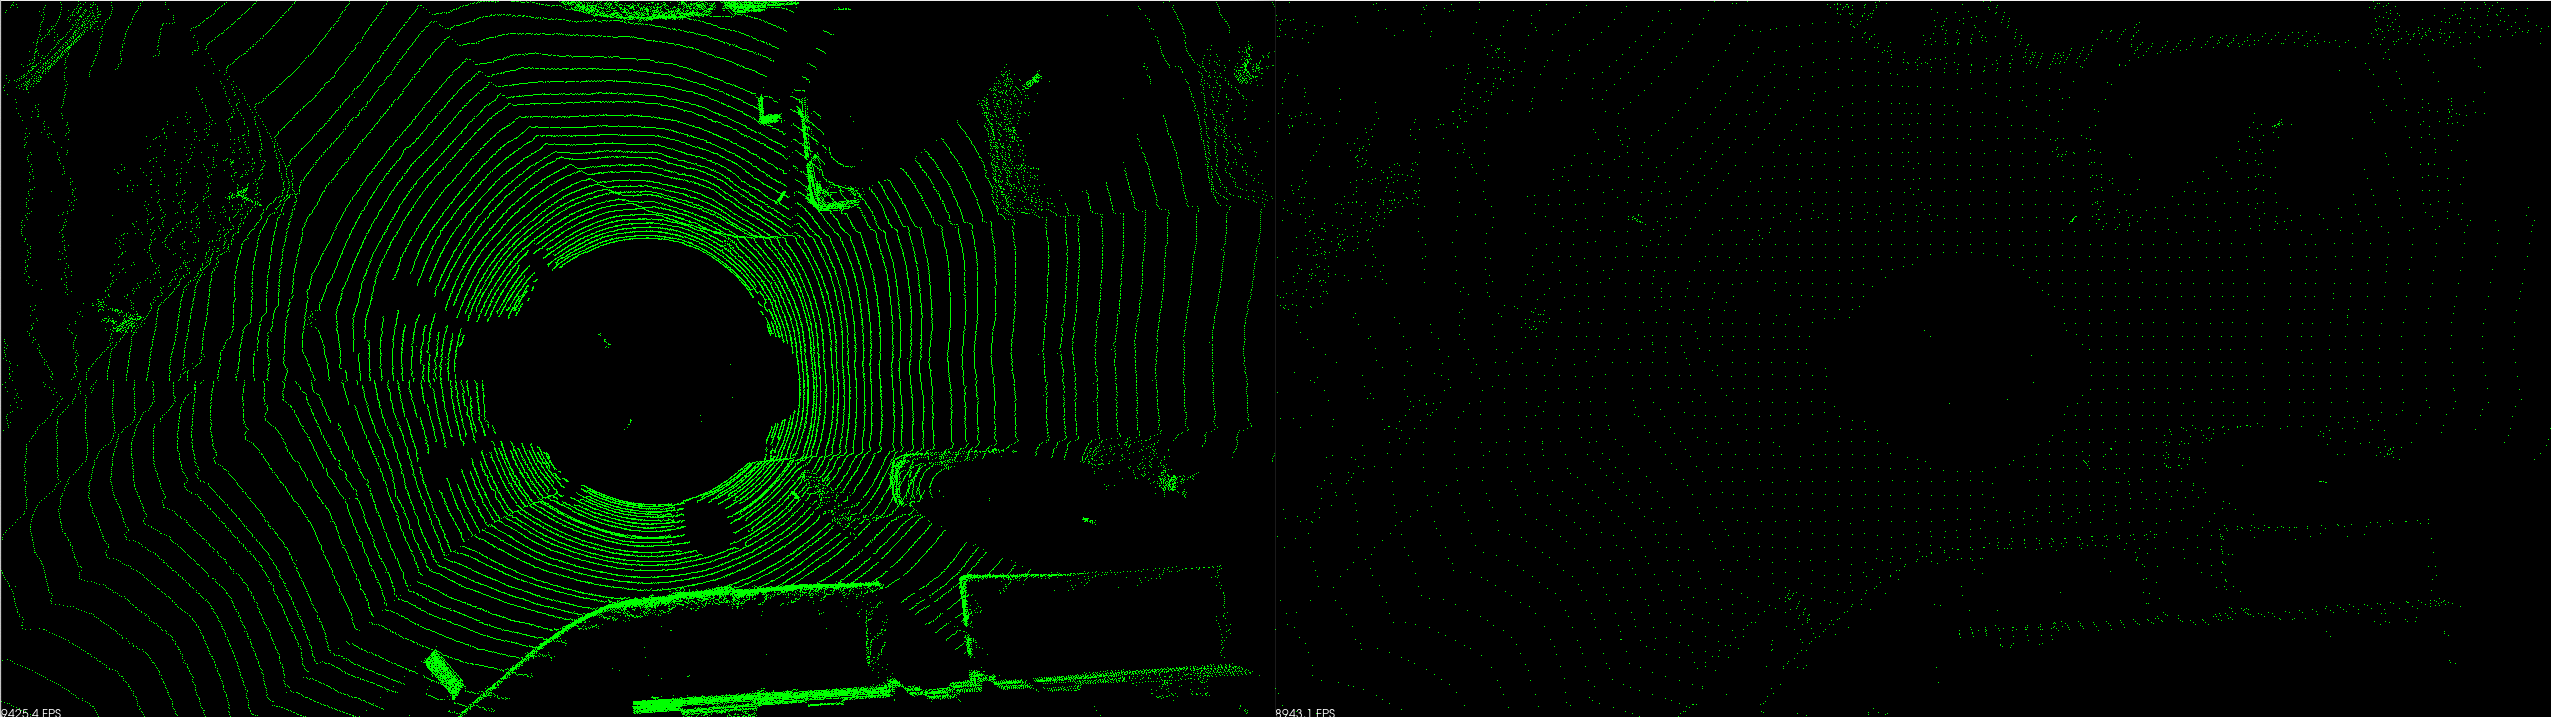
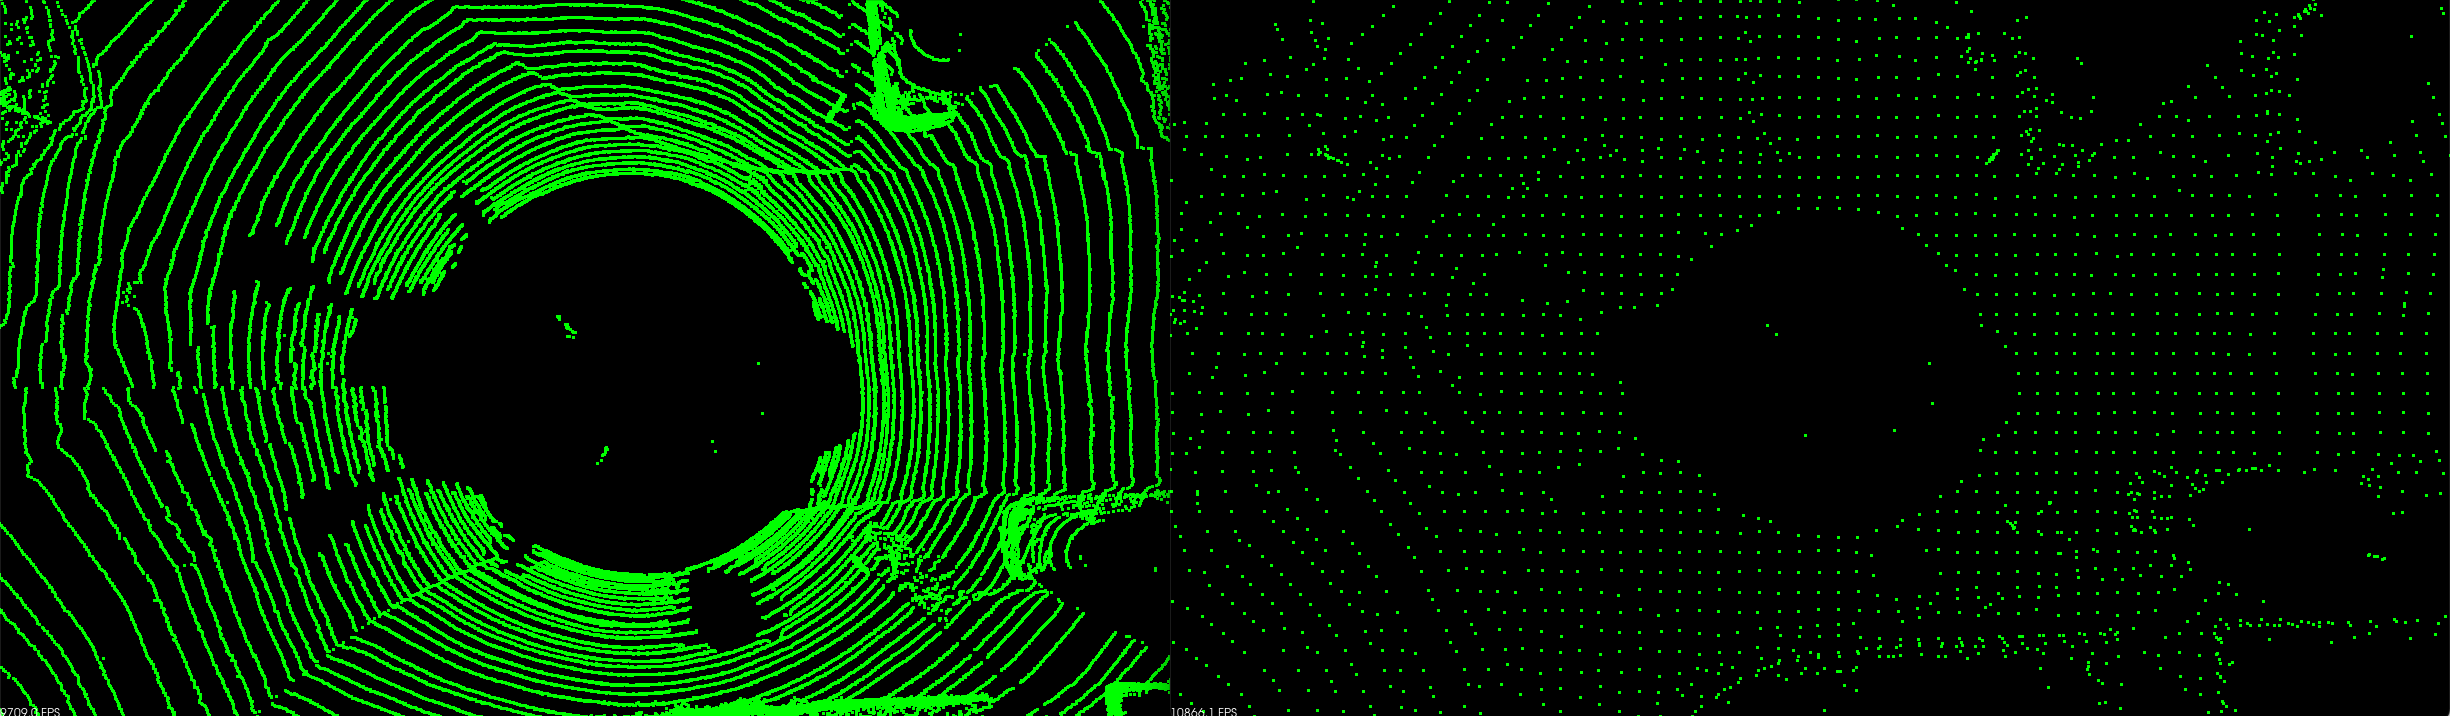
[4_3] Update image for better visibility

diff --git a/4_3/examples/passthrough.cpp b/4_3/examples/passthrough.cpp
@@ -85,16 +85,18 @@ int main(int argc, char **argv) {
   pcl::PointCloud<pcl::PointXYZRGB>::Ptr output_colored(
       new pcl::PointCloud<pcl::PointXYZRGB>);
 
-  colorize(*cloud, *cloud_colored, {0, 255, 0});
+  colorize(*cloud, *cloud_colored, {255, 0, 0});
   colorize(*output, *output_colored, {0, 255, 0});
 
-  pcl::visualization::PCLVisualizer viewer1("Original point cloud");
-  pcl::visualization::PCLVisualizer viewer2("Passthrough point cloud");
+  pcl::visualization::PCLVisualizer viewer1("Passthrough point cloud");
   viewer1.addPointCloud<pcl::PointXYZRGB>(cloud_colored, "cloud");
-  viewer2.addPointCloud<pcl::PointXYZRGB>(output_colored, "cloud");
+  viewer1.addPointCloud<pcl::PointXYZRGB>(output_colored, "cloud_filtered");
 
-  while (!viewer1.wasStopped() || !viewer2.wasStopped()) {
+  viewer1.setPointCloudRenderingProperties(pcl::visualization::PCL_VISUALIZER_POINT_SIZE, 3, "cloud");
+  viewer1.setPointCloudRenderingProperties(pcl::visualization::PCL_VISUALIZER_POINT_SIZE, 3, "cloud_filtered");
+
+  while (!viewer1.wasStopped()) {
     viewer1.spinOnce();
-    viewer2.spinOnce();
+    viewer1.spinOnce();
   }
 }

diff --git a/4_3/examples/downsampling.cpp b/4_3/examples/downsampling.cpp
@@ -77,6 +77,9 @@ int main(int argc, char **argv) {
   pcl::visualization::PCLVisualizer viewer2("Downsampled Cloud Viewer");
   viewer2.addPointCloud<pcl::PointXYZRGB>(ds_cloud_colored, "cloud");
 
+  viewer1.setPointCloudRenderingProperties(pcl::visualization::PCL_VISUALIZER_POINT_SIZE, 3, "cloud");
+  viewer2.setPointCloudRenderingProperties(pcl::visualization::PCL_VISUALIZER_POINT_SIZE, 3, "cloud");
+
   while (!viewer1.wasStopped() || !viewer2.wasStopped()) {
     viewer1.spinOnce();
     viewer2.spinOnce();

diff --git a/4_3/examples/sor.cpp b/4_3/examples/sor.cpp
@@ -78,6 +78,9 @@ int main() {
   viewer1.addPointCloud<pcl::PointXYZRGB>(inliers_colored, "inliers");
   viewer1.addPointCloud<pcl::PointXYZRGB>(outliers_colored, "outliers");
 
+  viewer1.setPointCloudRenderingProperties(pcl::visualization::PCL_VISUALIZER_POINT_SIZE, 2, "inliers");
+  viewer1.setPointCloudRenderingProperties(pcl::visualization::PCL_VISUALIZER_POINT_SIZE, 2, "outliers");
+
   while (!viewer1.wasStopped()) {
     viewer1.spinOnce();
   }
